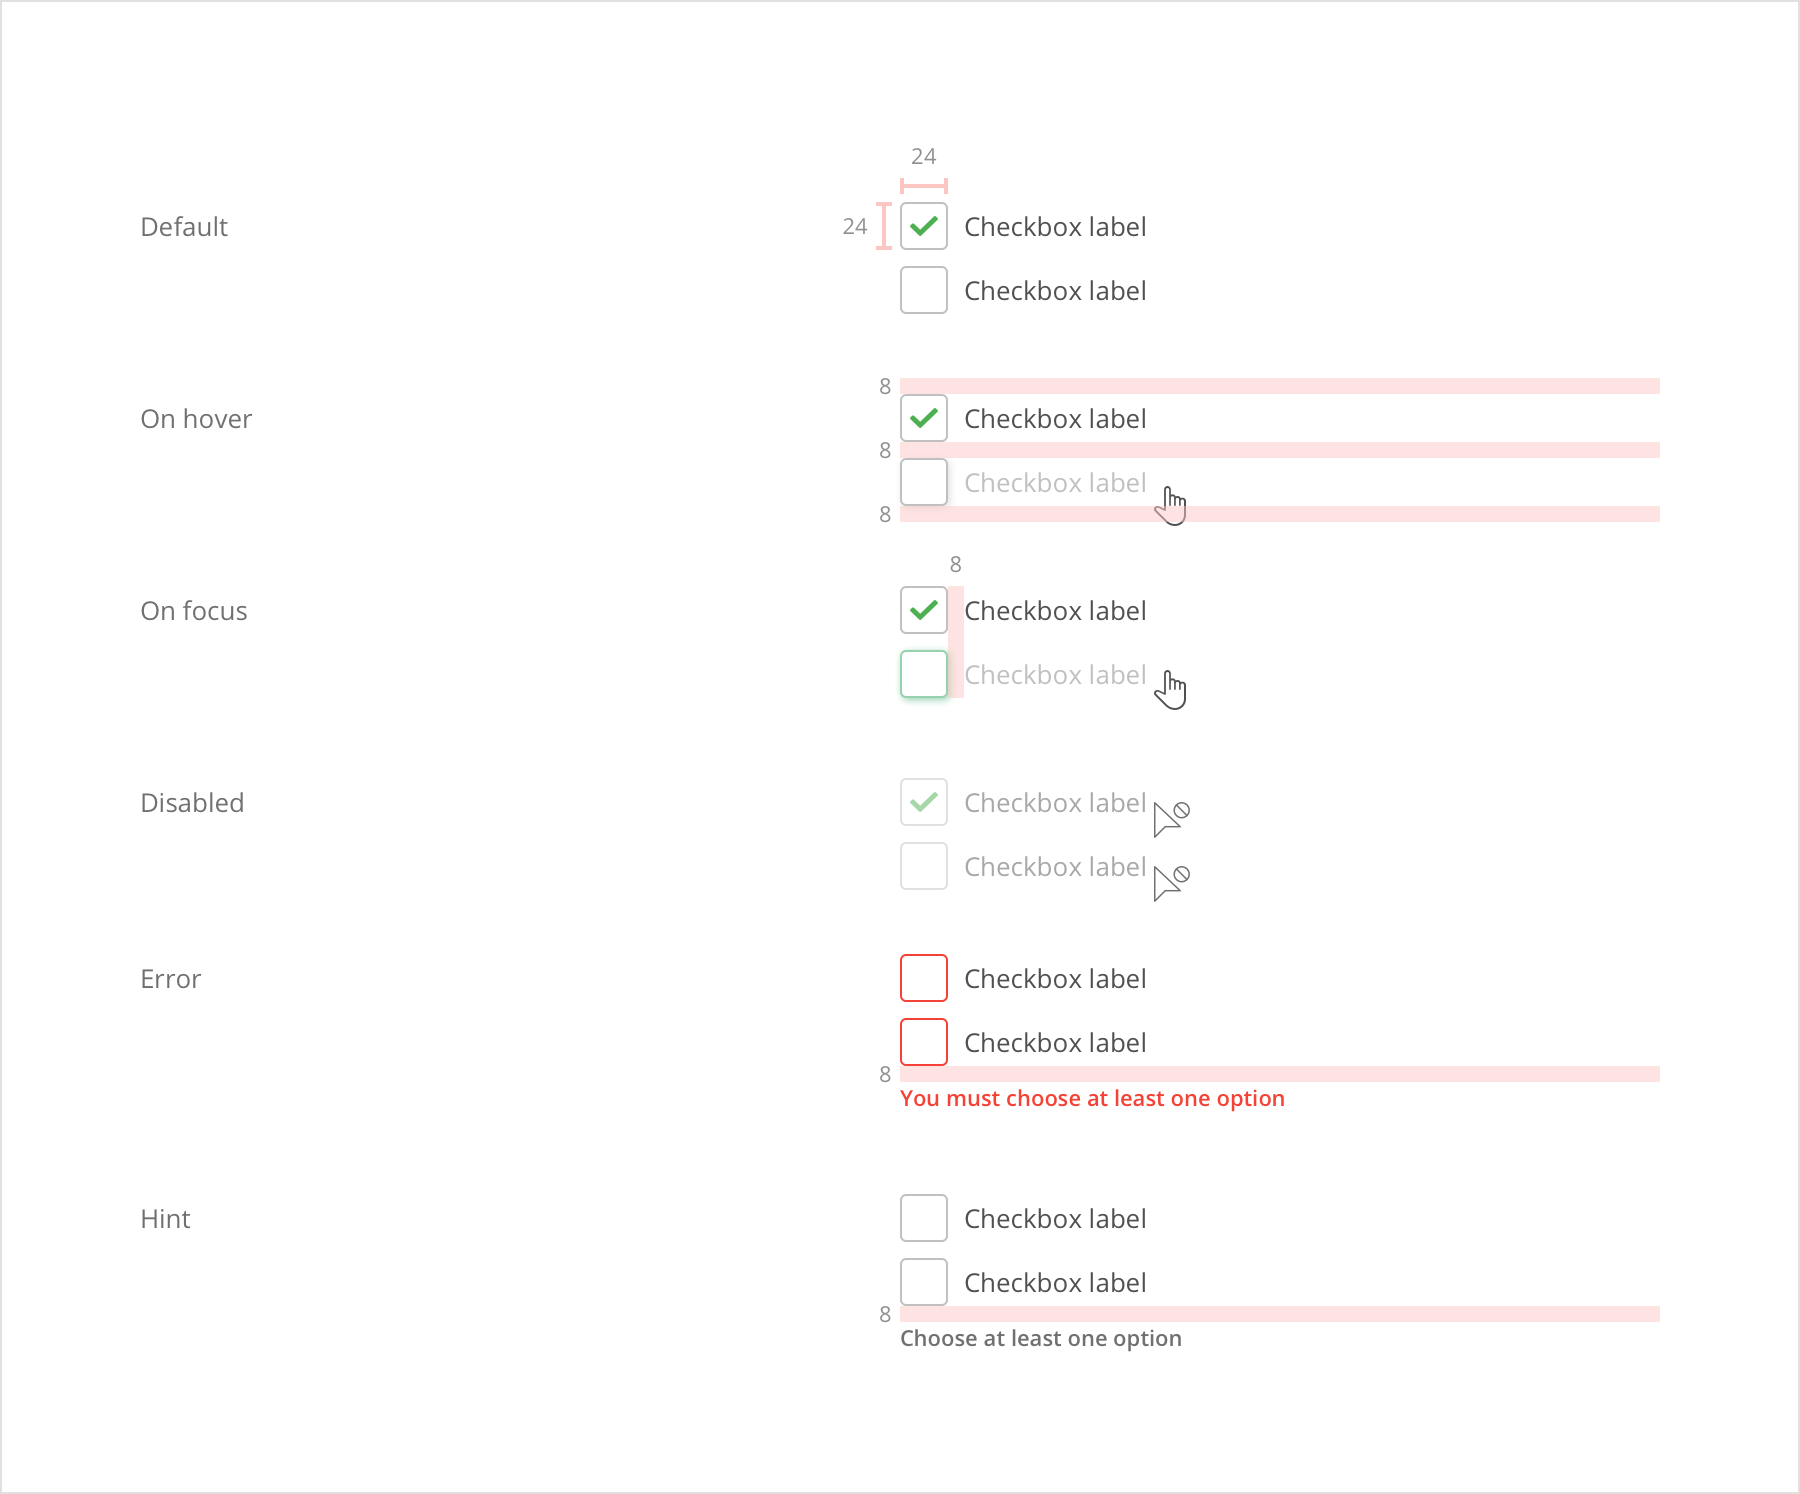
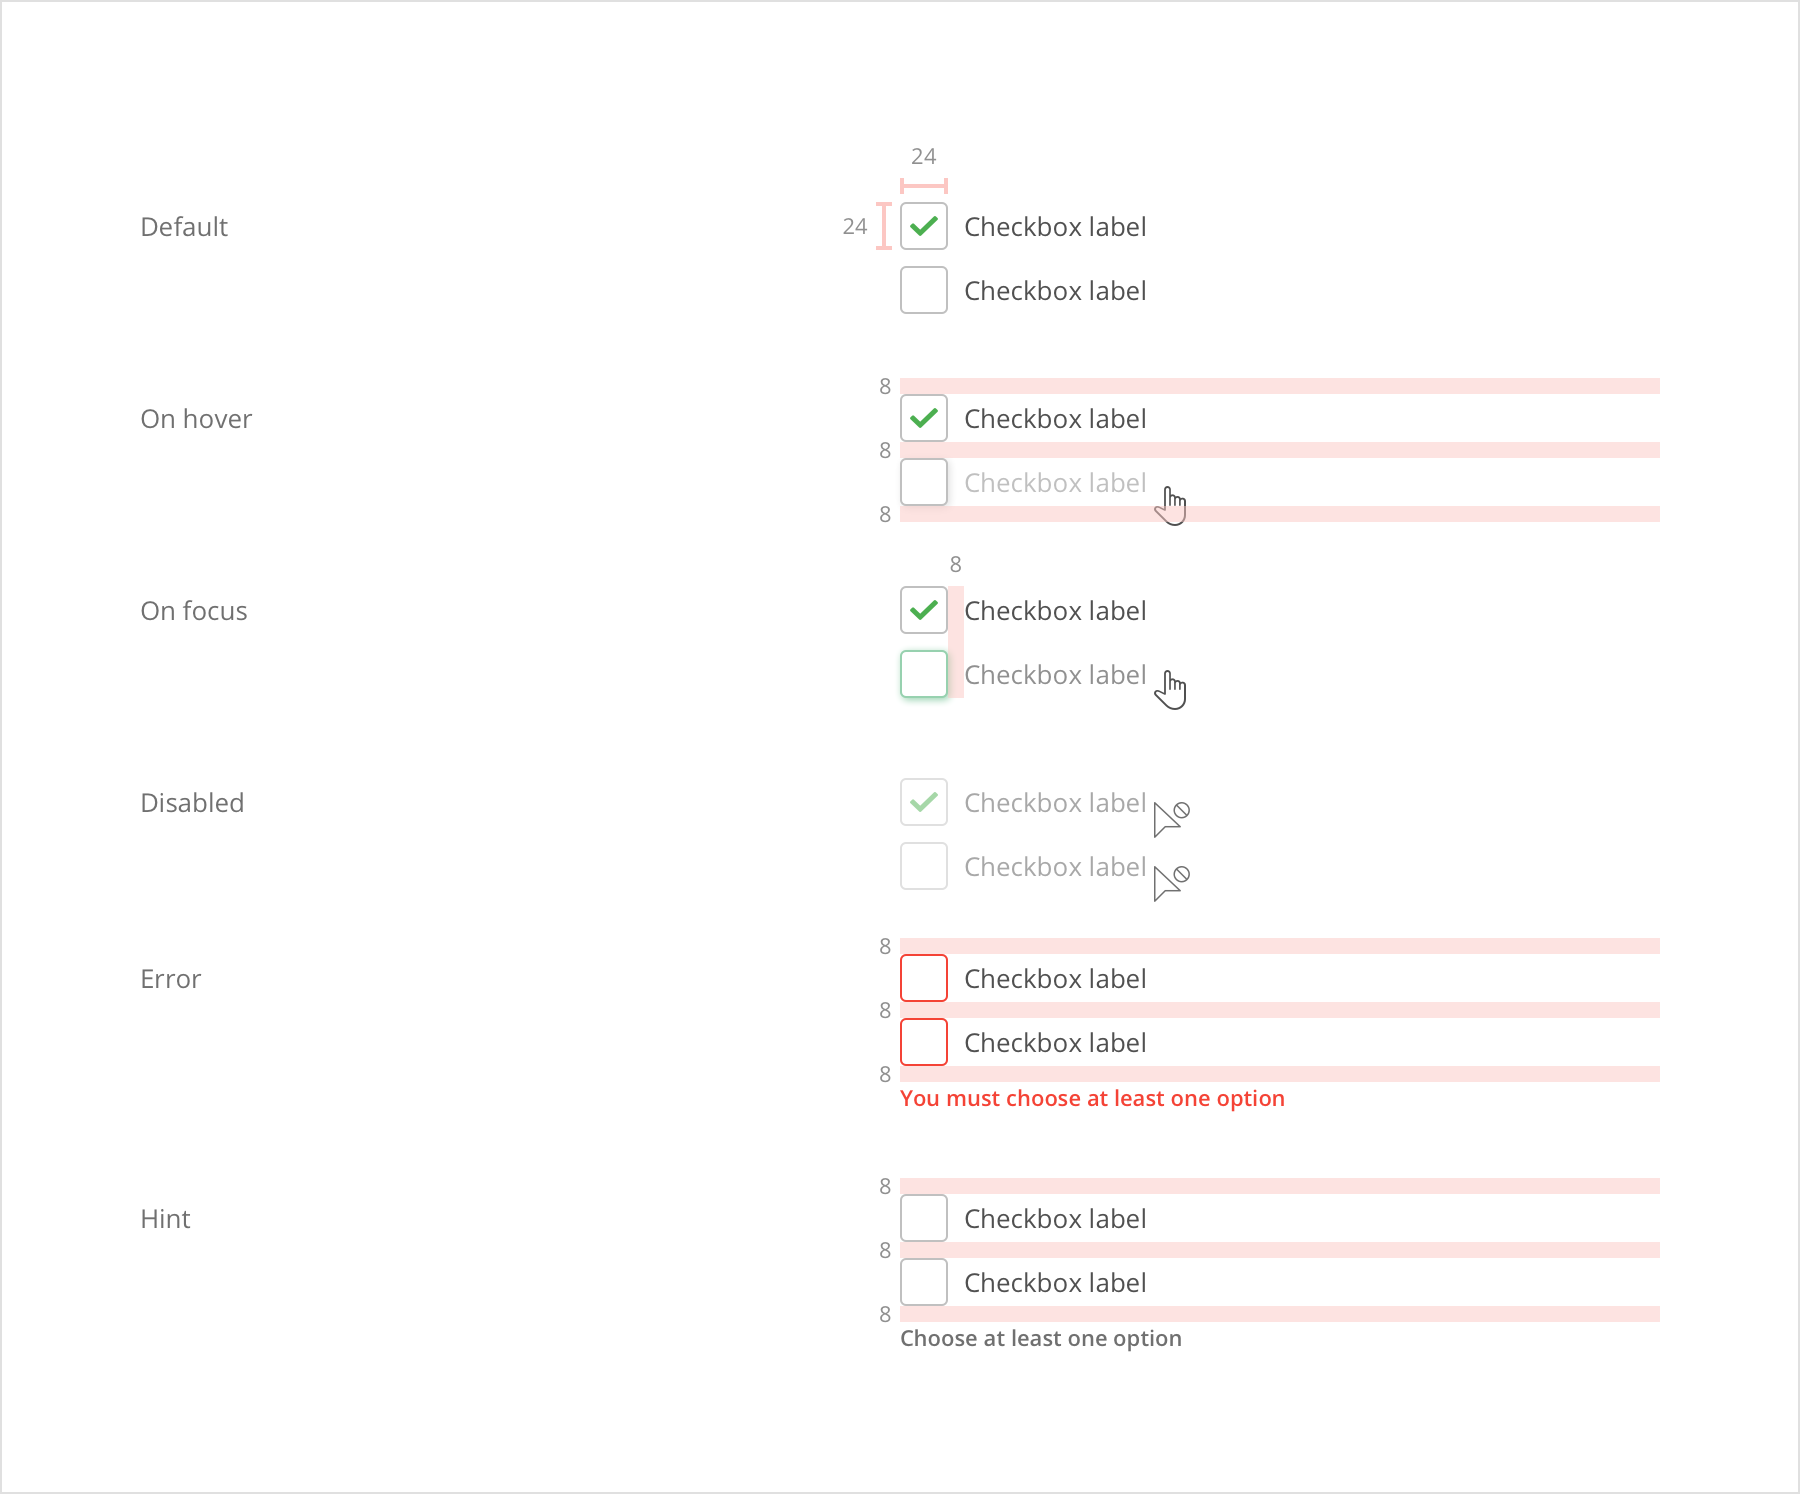
Updates assets/atoms/checkboxes-multi-select-states.png
Auto commit by GitBook Editor

diff --git a/atoms/checkboxes.md b/atoms/checkboxes.md
@@ -22,7 +22,7 @@ Single-select checkboxes are standalone and they are used as an enable/disable a
 ![](/assets/atoms/checkboxes-single-select-states.png)
 
 ```
-/* Default */
+/* Single-select checkbox/ default */
 width: 24px;
 height: 24px;
 background: $S100;
@@ -30,14 +30,14 @@ border: 1px solid $S500;
 border-radius: 3px;
 margin: 8px 0 8px 0;
 
-/* On hover */
+/* Single-select checkbox / on hover */
 box-shadow: 1px 1px 4px 0 $S300;
 
-/* On focus */
+/* Single-select checkbox / on focus */
 border: 1px solid $G200;
 box-shadow: 1px 1px 4px 0 $G200;
 
-/* Disabled */
+/* Single-select checkbox / disabled */
 opacity: 50%;
 ```
 
@@ -52,39 +52,55 @@ Multi-select checkboxes are used when there are multiple choices, and more than 
 * The margin between Multi-selects is 8px.
 * The first Multi-select in a group has a margin top of 8px.
 * The last Multi-select in a group has a margin bottom of 8px.
+* There is a margin of 8px between a checkbox and a checkbox label.
+* Only first letter of the checkbox label should be capitalized.
 
 ![](/assets/atoms/checkboxes-multi-select-states.png)
 
 ```
-/* Differences compared to the Single-select */
+/* Multi-select checkbox / default */
+width: 24px;
+height: 24px;
+background: $S100;
+border: 1px solid $S500;
+border-radius: 3px;
+margin: 8px 8px 8px 0;
 
-/* Default */
+/* Multi-select label / default */
 font-family: Open Sans;
 font-weight: Regular;
 font-size: 13px;
 color: $B300;
 
-/* On hover */
+/* Multi-select checkbox / on hover */
+box-shadow: 1px 1px 4px 0 $S300;
+
+/* Multi-select label / on hover */
 color: $S500;
 
-/* On focus */
-color: $S500;
+/* Multi-select checkbox / on focus */
+border: 1px solid $G200;
+box-shadow: 1px 1px 4px 0 $G200;
 
-/* Disabled */
+/* Multi-select label / on focus */
+color: $B100;
+
+/* Multi-select checkbox / disabled */
 opacity: 50%;
 
-/* Error */
+/* Multi-select label / disabled */
+opacity: 50%;
+
+/* Multi-select checkbox / error */
 border: 1px solid $G300;
 
-/* Error message */
-margin-top: 8px;
+/* Multi-select error message */
 font-family: Open Sans;
 font-weight: Semibold;
 font-size: 11px;
 color: $R300;
 
-/* Hint message */
-margin-top: 8px;
+/* Multi-select hint message */
 font-family: Open Sans;
 font-weight: Semibold;
 font-size: 11px;
